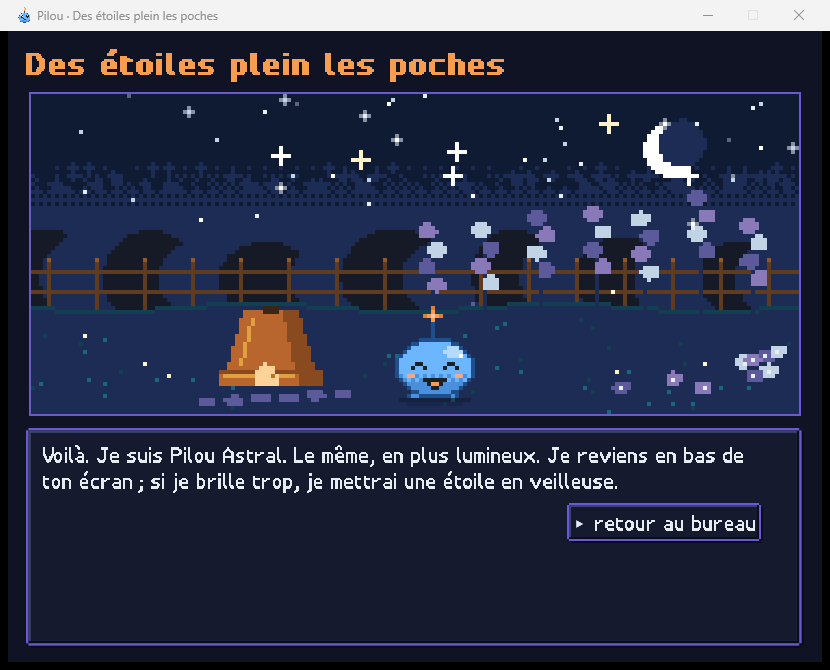
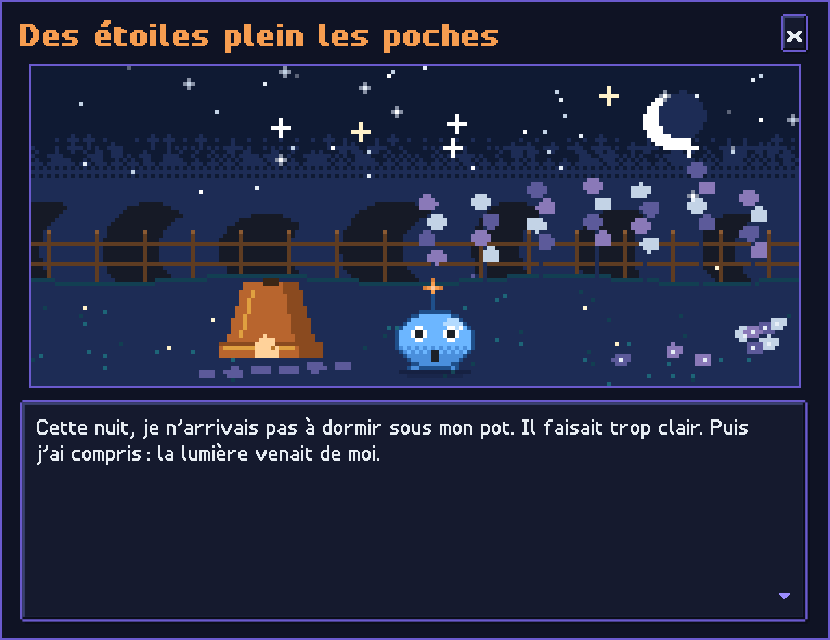
Scènes d'évolution : le thème de Pilou et une fenêtre habillée en pixel
- champ facultatif « musique » dans assets/evolutions.txt : pilou-10, pilou-25, pilou-40 (docs/SONS.md), lu par la référence, le PC et le téléphone
- fenêtre de scène sans la barre de titre Windows : titre en pixel, ✕ maison, déplacement en tirant la tête, bordure du guide

diff --git a/apps/PilouBureau/FenetreScene.cs b/apps/PilouBureau/FenetreScene.cs
@@ -43,13 +43,19 @@ internal sealed class FenetreScene : Window
         // La scène à ×4 (768 × 320) : la fenêtre tient sur un écran de portable à 125 % ; sa taille ne bouge pas d'une
         // réplique à l'autre (la boîte prend la place qui reste).
         Width = 830;
-        Height = 670;
+        Height = 640;
         ResizeMode = ResizeMode.CanMinimize;
         WindowStartupLocation = WindowStartupLocation.CenterScreen;
         Background = Fond;
         UseLayoutRounding = true;
         SnapsToDevicePixels = true;
         ShowInTaskbar = true;
+        // Habillage maison : pas de barre de titre Windows (claire, système) au-dessus du pixel sombre ; la tête de la
+        // fenêtre est dessinée ici (titre, ✕), on la déplace en la tirant, Échap ferme.
+        WindowStyle = WindowStyle.None;
+        ResizeMode = ResizeMode.NoResize;
+        BorderBrush = Bandeau.Bord;
+        BorderThickness = new Thickness(2);
 
         _theatre = new VueTheatre(() => AnimationsCampagne.Niveau(pilou.AnimationsCampagnes, Bandeau.Anime),
             () => RenduPilou.Teinte(pilou.AllurePortrait("repos", 0), Banque.Commune));
@@ -61,8 +67,27 @@ internal sealed class FenetreScene : Window
         racine.RowDefinitions.Add(new RowDefinition { Height = GridLength.Auto });
         racine.RowDefinitions.Add(new RowDefinition { Height = new GridLength(1, GridUnitType.Star) });
 
-        var titre = new TextePixel(sc.Titre, Bandeau.OrangePo) { Taille = 3, Titre = true, Margin = new Thickness(0, 0, 0, 10) };
-        racine.Children.Add(titre);
+        var tete = new Grid { Margin = new Thickness(0, 0, 0, 10), Background = Brushes.Transparent, Cursor = Cursors.SizeAll };
+        tete.ColumnDefinitions.Add(new ColumnDefinition { Width = new GridLength(1, GridUnitType.Star) });
+        tete.ColumnDefinitions.Add(new ColumnDefinition { Width = GridLength.Auto });
+        tete.Children.Add(new TextePixel(sc.Titre, Bandeau.OrangePo) { Taille = 3, Titre = true, VerticalAlignment = VerticalAlignment.Center });
+        var croix = new TextePixel("✕", CadrePixel.Texte) { Taille = 2 };
+        var fermer = new CadrePixel { U = 2, Child = croix, Cursor = Cursors.Hand, VerticalAlignment = VerticalAlignment.Center, ToolTip = "Fermer (Échap)" };
+        fermer.Change += () => croix.Couleur = fermer.Survol ? CadrePixel.SurvolTexte : CadrePixel.Texte;
+        fermer.MouseEnter += (_, _) => fermer.Survol = true;
+        fermer.MouseLeave += (_, _) => fermer.Survol = false;
+        fermer.MouseLeftButtonDown += (_, e) =>
+        {
+            e.Handled = true;
+            Close();
+        };
+        Grid.SetColumn(fermer, 1);
+        tete.Children.Add(fermer);
+        tete.MouseLeftButtonDown += (_, e) =>
+        {
+            if (e.ButtonState == MouseButtonState.Pressed) DragMove();
+        };
+        racine.Children.Add(tete);
 
         var scene = new Border { BorderBrush = Bandeau.Bord, BorderThickness = new Thickness(2), HorizontalAlignment = HorizontalAlignment.Center, Child = _theatre };
         Grid.SetRow(scene, 1);
@@ -92,7 +117,8 @@ internal sealed class FenetreScene : Window
             else if (e.Key is >= Key.D1 and <= Key.D3 && _options.Children.Count > 0) Choisir(e.Key - Key.D1);
             else if (e.Key is >= Key.NumPad1 and <= Key.NumPad3 && _options.Children.Count > 0) Choisir(e.Key - Key.NumPad1);
         };
-        Musique.Suivre(this, () => "evolution", () => "emotion", () => _sc.Decor); // docs/SONS.md : la musique du ton « émotion »
+        // docs/SONS.md : le thème de Pilou de ce stade (champ « musique »), sinon la boucle du ton « émotion ».
+        Musique.Suivre(this, () => "evolution", () => "emotion", () => _sc.Decor, () => _sc.Musique == "" ? null : _sc.Musique);
         _minuterie = new DispatcherTimer(DispatcherPriority.Render, Dispatcher) { Interval = TimeSpan.FromMilliseconds(30) };
         _minuterie.Tick += (_, _) => Avancer();
         _minuterie.Start();

diff --git a/outils/sprites/evolutions.py b/outils/sprites/evolutions.py
@@ -22,6 +22,7 @@ class Scene:
         self.stade = stade
         self.titre = ""
         self.decor = ""
+        self.musique = ""           # morceau de assets/musiques.txt (vide : la boucle du ton « émotion »)
         self.question = ""
         self.options = []            # [(id, libellé)]
         self.elements = []           # [(sorte, cle, humeur, texte)] : sorte pilou | calin | espiegle | choix | apres
@@ -45,6 +46,8 @@ def lire(texte):
             sc.titre = reste
         elif mot == "decor":
             sc.decor = reste
+        elif mot == "musique":
+            sc.musique = reste
         elif mot in ("pilou", "calin", "espiegle"):
             humeur, _, t = reste.partition(" ")
             sc.elements.append((mot, "", humeur, t))
@@ -99,7 +102,7 @@ def ecrire_reference():
               "# EvolutionsTest.java. Ne pas modifier à la main."]
     for stade in sorted(scenes):
         sc = scenes[stade]
-        lignes.append("scene %d %s | %s | %s" % (stade, sc.decor, sc.titre, sc.question))
+        lignes.append("scene %d %s | %s | %s | %s" % (stade, sc.decor, sc.titre, sc.question, sc.musique or "-"))
         for (oid, lib) in sc.options:
             lignes.append("option %s %s" % (oid, lib))
         for var in VARIANTES + ("autre",):

diff --git a/apps/PilouBureau/Evolutions.cs b/apps/PilouBureau/Evolutions.cs
@@ -20,6 +20,8 @@ public static class Evolutions
         public int Stade { get; init; }
         public string Titre { get; set; } = "";
         public string Decor { get; set; } = "";
+        // Morceau de assets/musiques.txt (docs/SONS.md) ; vide : la boucle du ton « émotion ».
+        public string Musique { get; set; } = "";
         public string Question { get; set; } = "";
         public List<(string Id, string Libelle)> Options { get; } = new();
         public List<Element> Elements { get; } = new();
@@ -49,6 +51,9 @@ public static class Evolutions
                     break;
                 case "decor":
                     sc.Decor = reste;
+                    break;
+                case "musique":
+                    sc.Musique = reste;
                     break;
                 case "pilou" or "calin" or "espiegle":
                 {

diff --git a/android/app/src/main/java/fr/pilou/compagnon/Evolutions.java b/android/app/src/main/java/fr/pilou/compagnon/Evolutions.java
@@ -54,6 +54,8 @@ final class Evolutions {
     static final class Scene {
         final int stade;
         String titre = "", decor = "", question = "";
+        /** Morceau de assets/musiques.txt (docs/SONS.md) ; vide : la boucle du ton « émotion ». */
+        String musique = "";
         final List<Option> options = new ArrayList<>();
         final List<Element> elements = new ArrayList<>();
 
@@ -92,6 +94,8 @@ final class Evolutions {
                 sc.titre = reste;
             } else if (mot.equals("decor")) {
                 sc.decor = reste;
+            } else if (mot.equals("musique")) {
+                sc.musique = reste;
             } else if (mot.equals("pilou") || mot.equals("calin") || mot.equals("espiegle")) {
                 String[] ht = partager(reste);
                 sc.elements.add(new Element(mot, "", ht[0], ht[1]));

diff --git a/android/app/src/test/java/fr/pilou/compagnon/EvolutionsTest.java b/android/app/src/test/java/fr/pilou/compagnon/EvolutionsTest.java
@@ -31,7 +31,7 @@ public class EvolutionsTest {
     private static List<String> recalculer(Map<Integer, Evolutions.Scene> scenes) {
         List<String> l = new ArrayList<>();
         for (Evolutions.Scene sc : scenes.values()) {
-            l.add("scene " + sc.stade + " " + sc.decor + " | " + sc.titre + " | " + sc.question);
+            l.add("scene " + sc.stade + " " + sc.decor + " | " + sc.titre + " | " + sc.question + " | " + (sc.musique.isEmpty() ? "-" : sc.musique));
             for (Evolutions.Option o : sc.options) l.add("option " + o.id + " " + o.libelle);
             List<String> variantes = new ArrayList<>(java.util.Arrays.asList(Evolutions.VARIANTES));
             variantes.add("autre");

diff --git a/android/app/src/main/java/fr/pilou/compagnon/SceneEvolution.java b/android/app/src/main/java/fr/pilou/compagnon/SceneEvolution.java
@@ -71,7 +71,7 @@ final class SceneEvolution extends FrameLayout {
         setBackgroundColor(p.fond);
         setClickable(true);
         setContentDescription("Évolution de Pilou : " + sc.titre);
-        Musique.suivre(this, () -> "evolution", () -> "emotion", () -> sc.decor);   // docs/SONS.md
+        Musique.suivre(this, () -> "evolution", () -> "emotion", () -> sc.decor, () -> sc.musique.isEmpty() ? null : sc.musique);   // docs/SONS.md
 
         LinearLayout colonne = Ui.pile(a);
         addView(colonne, new LayoutParams(ViewGroup.LayoutParams.MATCH_PARENT, ViewGroup.LayoutParams.MATCH_PARENT));

diff --git a/apps/PilouBureau/tests/EvolutionsTests.cs b/apps/PilouBureau/tests/EvolutionsTests.cs
@@ -18,7 +18,7 @@ public class EvolutionsTests
         var obtenu = new List<string>();
         foreach (var (stade, sc) in scenes)
         {
-            obtenu.Add($"scene {stade} {sc.Decor} | {sc.Titre} | {sc.Question}");
+            obtenu.Add($"scene {stade} {sc.Decor} | {sc.Titre} | {sc.Question} | {(sc.Musique == "" ? "-" : sc.Musique)}");
             foreach (var (id, lib) in sc.Options) obtenu.Add($"option {id} {lib}");
             foreach (var v in new[] { "calin", "espiegle", "autre" })
             foreach (var choix in new string?[] { null }.Concat(sc.Options.Select(o => o.Id)))
